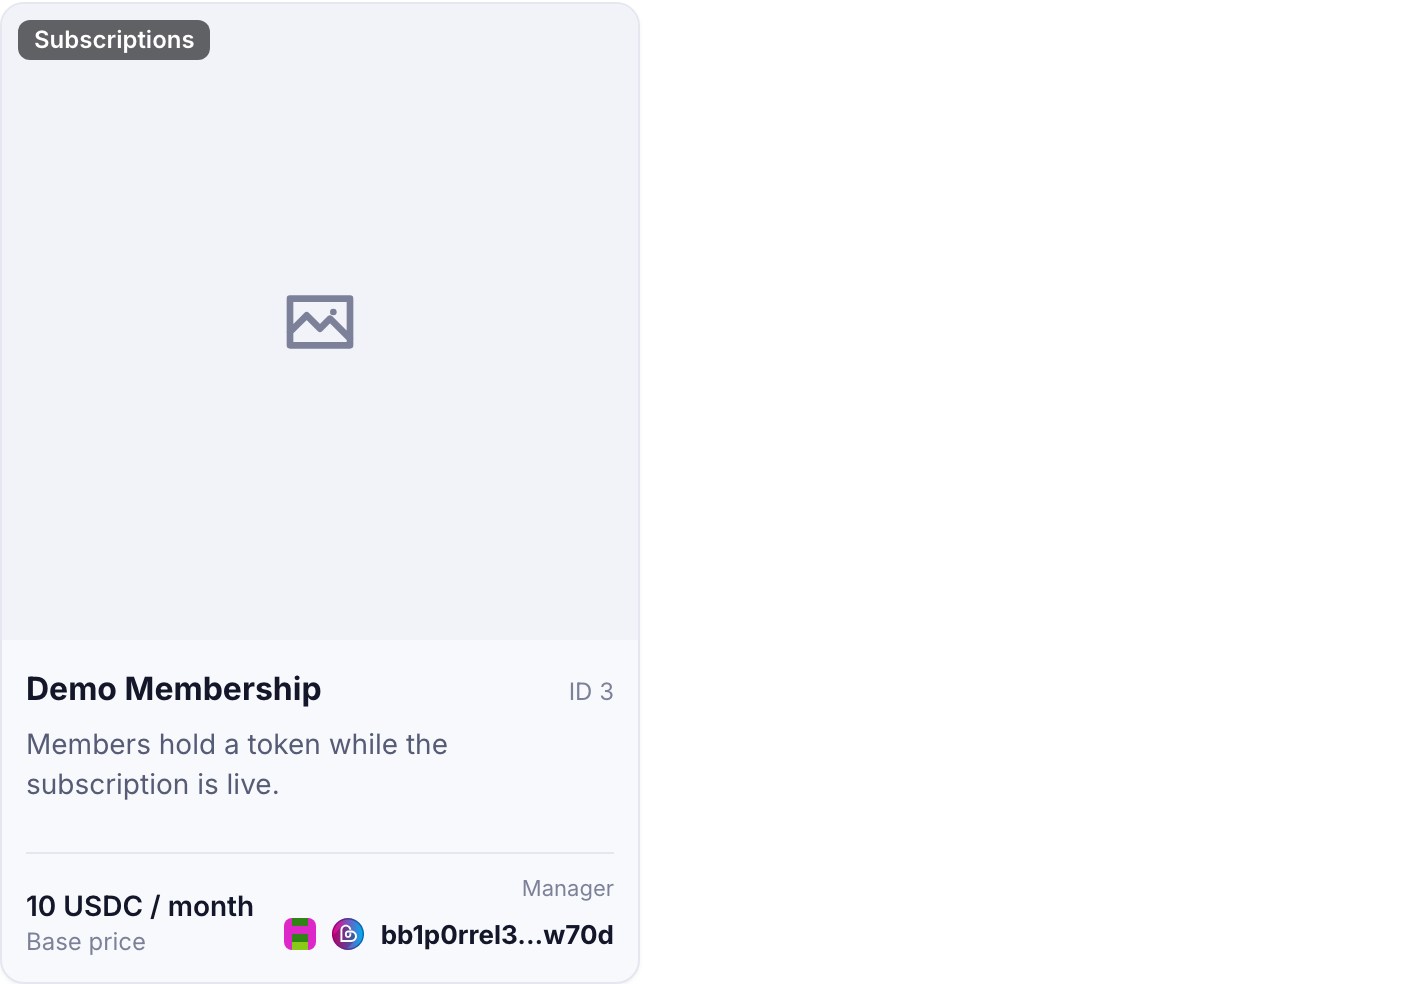
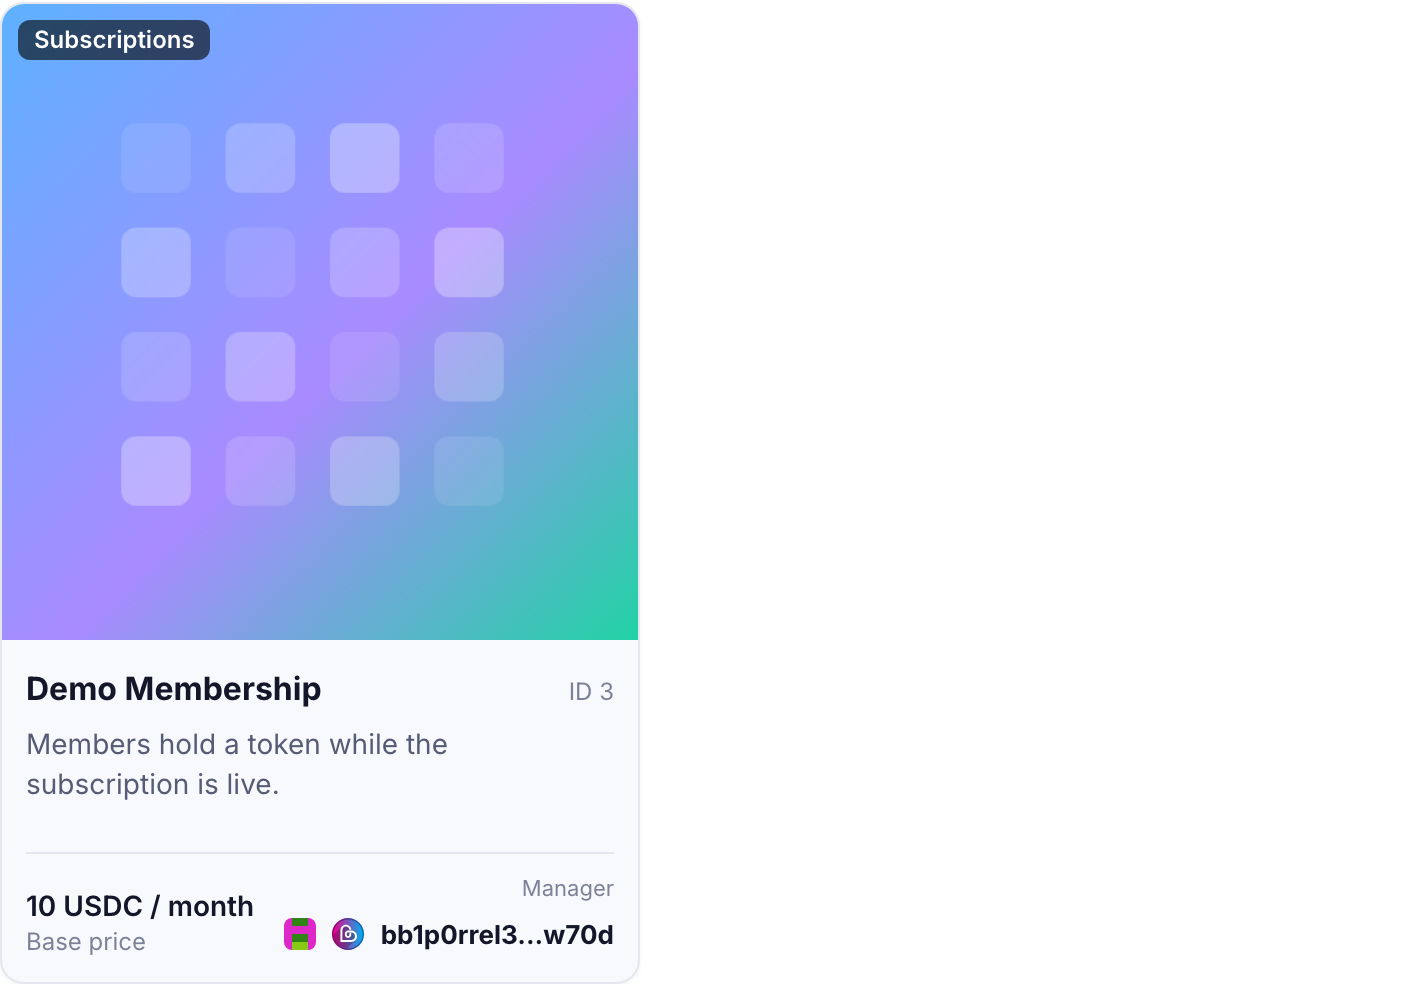
fix(site): every collection card has art, and empty stubs leave the collapsed view
A collection card rendered an empty photo frame when no image was
passed, which is worse than no card. The image is now required by the
schema, and four abstract sample artworks ship with the site for the
docs examples to use.

Key protection in the JSON pruner applied by name at any depth, so
precalculateBalancesFromApproval survived as a wrapper holding one empty
approvalId. Protection now applies at the root only, where an empty
value is a real choice such as a uri that means inline metadata. Nested,
the field goes and the wrapper left empty goes with it.

Seventeen of the 47 widget placements are removed. A widget earns its
place when seeing the shape teaches something the prose and the JSON
beside it cannot; the ones that went were single dimmed cards, bare
address chips, and rows on reference pages whose job is the field list.

Changed region(s): [[0.0, 0.0, 0.4674, 0.6707]]

diff --git a/site/src/components/widgets/CollectionCard.tsx b/site/src/components/widgets/CollectionCard.tsx
@@ -1,13 +1,19 @@
 import { z } from 'zod';
 
-import { AddressChip, Chip, Icon, WidgetFrame } from './shared';
+import { withBasePath } from '../../lib/docs/config';
+import { AddressChip, Chip, WidgetFrame } from './shared';
 
 /** A collection as the browse grid shows it: image, name, id, standard, supply, manager. */
 export const schema = z.object({
   collectionId: z.union([z.string(), z.number()]).transform(String),
   name: z.string().min(1),
   description: z.string().optional(),
-  image: z.string().url().optional(),
+  /**
+   * Cover art. Required: a card with an empty frame is worse than no card, and
+   * every collection on bitbadges.io has art. Sample artwork for docs examples
+   * lives in `site/public/widgets/samples/`.
+   */
+  image: z.string().min(1),
   /** Standards from `collection.standards`; the first one is the badge on the card. */
   standards: z.array(z.string()).default([]),
   supply: z.string().optional(),
@@ -25,13 +31,7 @@ export function Component({ collectionId, name, description, image, standards, s
     <WidgetFrame name="collection-card" className="@container w-full max-w-[20rem] overflow-hidden">
       <div>
         <div className="relative aspect-square w-full bg-[var(--bg-inset)]">
-          {image ? (
-            <img src={image} alt="" className="h-full w-full object-cover" />
-          ) : (
-            <div className="flex h-full w-full items-center justify-center text-[var(--fg-faint)]">
-              <Icon name="image" size={40} />
-            </div>
-          )}
+          <img src={withBasePath(image)} alt="" data-site-asset className="h-full w-full object-cover" />
           {standards[0] && (
             <span className="absolute left-2 top-2 rounded-md bg-black/60 px-2 py-0.5 text-xs font-semibold text-white">{standards[0]}</span>
           )}
@@ -79,6 +79,7 @@ export const examples: { name: string; props: z.input<typeof schema> }[] = [
       collectionId: 1,
       name: 'Demo NFTs',
       description: 'One hundred unique tokens, each with its own metadata.',
+      image: '/widgets/samples/nft.png',
       standards: ['NFTs', 'Tradable'],
       supply: '100',
       manager: 'bb1p0rrel3365scadq5k9pv0x0zp9j22js6dnw70d',
@@ -92,6 +93,7 @@ export const examples: { name: string; props: z.input<typeof schema> }[] = [
       collectionId: 3,
       name: 'Demo Membership',
       description: 'Members hold a token while the subscription is live.',
+      image: '/widgets/samples/membership.png',
       standards: ['Subscriptions'],
       price: '10 USDC / month',
       priceLabel: 'Base price',
@@ -100,6 +102,13 @@ export const examples: { name: string; props: z.input<typeof schema> }[] = [
   },
   {
     name: 'fungible',
-    props: { collectionId: 2, name: 'Demo Coin', standards: ['Fungible Tokens'], symbol: 'DEMO', supply: '1,000,000' },
+    props: {
+      collectionId: 2,
+      name: 'Demo Coin',
+      image: '/widgets/samples/points.png',
+      standards: ['Fungible Tokens'],
+      symbol: 'DEMO',
+      supply: '1,000,000',
+    },
   },
 ];

diff --git a/site/tests/collapse.test.ts b/site/tests/collapse.test.ts
@@ -101,6 +101,44 @@ describe('pruneJson', () => {
     expect(out).not.toMatch(/\{\s*\n\s*\}/);
   });
 
+  test('protects a meaningful empty value at the root but not a nested stub', () => {
+    const source = [
+      '{',
+      '  "from": "bb1p0rrel3365scadq5k9pv0x0zp9j22js6dnw70d",',
+      '  "uri": "",',
+      '  "customData": "",',
+      '  "balances": [{ "amount": "1" }],',
+      '  "precalculateBalancesFromApproval": {',
+      '    "approvalId": ""',
+      '  },',
+      '  "prioritizedApprovals": [],',
+      '  "onlyCheckPrioritizedCollectionApprovals": false',
+      '}',
+    ].join('\n');
+    const out = pruneJson(source)!;
+    expect(() => JSON.parse(out)).not.toThrow();
+    // An empty uri at the root says the metadata is inline, so it stays.
+    expect(out).toContain('"uri": ""');
+    // A wrapper whose only field is an empty id says nothing; both go.
+    expect(out).not.toContain('precalculateBalancesFromApproval');
+    expect(out).not.toContain('"approvalId"');
+    expect(out).not.toContain('"customData"');
+  });
+
+  test('drops the trailing comma when the last member of the root object goes', () => {
+    const source = [
+      '{',
+      '  "a": "keep",',
+      '  "b": "keep too",',
+      '  "c": [],',
+      '  "d": {}',
+      '}',
+    ].join('\n');
+    const out = pruneJson(source)!;
+    expect(out).toBe('{\n  "a": "keep",\n  "b": "keep too"\n}');
+    expect(() => JSON.parse(out)).not.toThrow();
+  });
+
   test('never leaves a trailing comma before a closing bracket', () => {
     expect(pruneJson(approval)!).not.toMatch(/,\s*[}\]]/);
   });

diff --git a/site/src/lib/docs/fold.ts b/site/src/lib/docs/fold.ts
@@ -20,9 +20,13 @@ const PRUNE_LANGS = new Set(['json', 'jsonc']);
 const PRUNE_MIN_LINES = 24;
 
 /**
- * Keys whose value carries meaning even when it looks like boilerplate. An
- * empty `uri` says the metadata is inline; an `approvalId` of `""` is a real
- * choice a reader has to see.
+ * Root-level keys whose value carries meaning even when it looks like
+ * boilerplate. An empty `uri` on a collection says the metadata is inline.
+ *
+ * Only the root is protected. The same name nested inside another object is
+ * usually a stub: `precalculateBalancesFromApproval.approvalId` of `""` says
+ * this transfer does not precalculate, so showing the wrapper with one empty
+ * field tells a reader less than dropping both.
  */
 const PROTECTED_KEYS = new Set([
   'approvalId',
@@ -67,7 +71,8 @@ function boilerplatePaths(value: unknown, at: string[] = [], out: string[][] = [
   }
   for (const [key, child] of Object.entries(value)) {
     const path = [...at, key];
-    if (!PROTECTED_KEYS.has(key) && isBoilerplateValue(child)) out.push(path);
+    const protectedHere = at.length === 0 && PROTECTED_KEYS.has(key);
+    if (!protectedHere && isBoilerplateValue(child)) out.push(path);
     else boilerplatePaths(child, path, out);
   }
   return out;

diff --git a/site/tests/widgets.test.ts b/site/tests/widgets.test.ts
@@ -79,7 +79,12 @@ describe('widget registry', () => {
     for (const name of widgetNames) {
       for (const example of widgets[name].examples) {
         const html = renderStatic(createWidgetElement(name, example.props));
-        for (const m of html.matchAll(/src="\/widgets\/([^"]+)"/g)) expect(files.has(m[1])).toBe(true);
+        // Logos sit directly under public/widgets; sample artwork one level down.
+        for (const m of html.matchAll(/src="\/widgets\/([^"]+)"/g)) {
+          const parts = m[1].split('/');
+          const dir = parts.length > 1 ? await fs.readdir(path.resolve(import.meta.dirname, `../public/widgets/${parts.slice(0, -1).join('/')}`)) : [...files];
+          expect(dir.includes(parts[parts.length - 1])).toBe(true);
+        }
       }
     }
   });

diff --git a/_docs/widgets/README.md b/_docs/widgets/README.md
@@ -15,6 +15,7 @@ Regenerate after a widget changes; the live page is `/widgets` on the site.
 | `address-list` | blacklist-mixed-chains | ![address-list blacklist-mixed-chains](./address-list--blacklist-mixed-chains.png) | ![address-list blacklist-mixed-chains dark](./address-list--blacklist-mixed-chains--dark.png) |
 | `approval-criteria` | paid-mint | ![approval-criteria paid-mint](./approval-criteria--paid-mint.png) | ![approval-criteria paid-mint dark](./approval-criteria--paid-mint--dark.png) |
 | `approval-criteria` | gated-by-ownership | ![approval-criteria gated-by-ownership](./approval-criteria--gated-by-ownership.png) | ![approval-criteria gated-by-ownership dark](./approval-criteria--gated-by-ownership--dark.png) |
+| `approval-criteria` | scaled-payout-with-daily-reset | ![approval-criteria scaled-payout-with-daily-reset](./approval-criteria--scaled-payout-with-daily-reset.png) | ![approval-criteria scaled-payout-with-daily-reset dark](./approval-criteria--scaled-payout-with-daily-reset--dark.png) |
 | `approval-criteria` | empty | ![approval-criteria empty](./approval-criteria--empty.png) | ![approval-criteria empty dark](./approval-criteria--empty--dark.png) |
 | `collection-card` | nft | ![collection-card nft](./collection-card--nft.png) | ![collection-card nft dark](./collection-card--nft--dark.png) |
 | `collection-card` | subscription | ![collection-card subscription](./collection-card--subscription.png) | ![collection-card subscription dark](./collection-card--subscription--dark.png) |

diff --git a/token-standard/messages/msg-set-outgoing-approval.md b/token-standard/messages/msg-set-outgoing-approval.md
@@ -235,33 +235,6 @@ console.log(result.txHash, result.success);
 }
 ```
 
-:::widget{name="transferability-row" caption="The listing as the outgoing approvals tab on bitbadges.io shows it: bob alone can take token 5 for 25 USDC inside the seven-day window."}
-{
-  "approvalId": "sell-token-5-to-bob",
-  "level": "outgoing",
-  "fromListId": "bb1p0rrel3365scadq5k9pv0x0zp9j22js6dnw70d",
-  "toListId": "bb1py4mfpg6uf59qkyzg0nmau322c5873eeysp5ue",
-  "initiatedByListId": "bb1py4mfpg6uf59qkyzg0nmau322c5873eeysp5ue",
-  "transferTimes": [
-    {
-      "start": "1788739200000",
-      "end": "1789344000000"
-    }
-  ],
-  "tokenIds": [
-    {
-      "start": "5",
-      "end": "5"
-    }
-  ],
-  "criteria": [
-    "25 USDC to alice",
-    "Max 1 transfer",
-    "Deleted after one use"
-  ]
-}
-:::
-
 The `set-outgoing-approval` CLI command takes the `approval` object on its own, not the whole message. This approval has side effects (`coinTransfers`, trackers, auto-deletion), so `mustPrioritize` is `true` and bob must list it in `prioritizedApprovals` when he executes the transfer.
 
 {% hint style="info" %}

diff --git a/token-standard/messages/msg-transfer-tokens.md b/token-standard/messages/msg-transfer-tokens.md
@@ -103,21 +103,6 @@ console.log(result.txHash, result.success);
 }
 ```
 
-:::widget{name="transferability-row" caption="The transferable approval the example names, as bitbadges.io lists it on Demo NFTs: any holder except Mint can send any of the 100 tokens to anyone."}
-{
-  "approvalId": "transferable",
-  "fromListId": "AllWithoutMint",
-  "toListId": "All",
-  "initiatedByListId": "All",
-  "tokenIds": [
-    {
-      "start": "1",
-      "end": "100"
-    }
-  ]
-}
-:::
-
 A `precalculateBalancesFromApproval` with every field blank is ignored. To mint from an approval that has `predeterminedBalances`, set `from` to `Mint`, leave `balances` empty, and name the approval in `precalculateBalancesFromApproval`. The chain computes the balances at execution time and overwrites the field.
 
 {% hint style="info" %}

diff --git a/token-standard/messages/msg-update-user-approvals.md b/token-standard/messages/msg-update-user-approvals.md
@@ -249,28 +249,6 @@ console.log(result.txHash, result.success);
 }
 ```
 
-:::widget{name="transferability-row" caption="The outgoing approval after this message: alice can move bob's token 1 to herself for 30 days."}
-{
-  "approvalId": "let-alice-move-token-1",
-  "level": "outgoing",
-  "fromListId": "bb1py4mfpg6uf59qkyzg0nmau322c5873eeysp5ue",
-  "toListId": "bb1p0rrel3365scadq5k9pv0x0zp9j22js6dnw70d",
-  "initiatedByListId": "bb1p0rrel3365scadq5k9pv0x0zp9j22js6dnw70d",
-  "transferTimes": [
-    {
-      "start": "1788739200000",
-      "end": "1791331200000"
-    }
-  ],
-  "tokenIds": [
-    {
-      "start": "1",
-      "end": "1"
-    }
-  ]
-}
-:::
-
 ## Fields
 
 When an `update*` flag is `false` the paired value is ignored, so placeholder data is safe.

diff --git a/token-standard/approval-criteria/predetermined-balances.md b/token-standard/approval-criteria/predetermined-balances.md
@@ -143,30 +143,6 @@ A complete `predeterminedBalances` with `incrementedBalances` open:
 }
 ```
 
-:::widget{name="approval-criteria" caption="The predetermined balances card on bitbadges.io: one token per transfer, with IDs handed out in order."}
-{
-  "predeterminedBalances": {
-    "incrementedBalances": {
-      "startBalances": [
-        {
-          "amount": "1",
-          "tokenIds": [
-            {
-              "start": "1",
-              "end": "1"
-            }
-          ]
-        }
-      ],
-      "incrementTokenIdsBy": "1"
-    },
-    "orderCalculationMethod": {
-      "useOverallNumTransfers": true
-    }
-  }
-}
-:::
-
 | Field | Description | Example |
 | --- | --- | --- |
 | `startBalances` | Balances for transfer number 0 | |

diff --git a/guides/smart-tokens-and-vaults.md b/guides/smart-tokens-and-vaults.md
@@ -680,19 +680,6 @@ Daily limit of 1 USDC (1,000,000 base units) per sender, resetting every 24 hour
 }
 ```
 
-:::widget{name="approval-criteria" caption="The withdrawal rule on bitbadges.io: 1,000,000 base units per sender, reset every day."}
-{
-  "approvalAmounts": {
-    "perFromAddressApprovalAmount": "1000000",
-    "amountTrackerId": "daily-withdraw-limit",
-    "resetTimeIntervals": {
-      "startTime": "0",
-      "intervalLength": "86400000"
-    }
-  }
-}
-:::
-
 2FA on withdrawal. The initiator must hold a token from collection 74 at the current time (`overrideWithCurrentTime: true` matters for expiring 2FA tokens). The same unbacking approval with that rule instead:
 
 ```json fold=11-20,22-40,42-48,50-63,73-103,107-111

diff --git a/token-standard/messages/msg-set-incoming-approval.md b/token-standard/messages/msg-set-incoming-approval.md
@@ -211,22 +211,6 @@ console.log(result.txHash, result.success);
 }
 ```
 
-:::widget{name="transferability-row" caption="The incoming approval as bob's account page lists it: transfers alice starts, for any token of collection 1, with no extra criteria."}
-{
-  "approvalId": "accept-from-alice",
-  "level": "incoming",
-  "fromListId": "bb1p0rrel3365scadq5k9pv0x0zp9j22js6dnw70d",
-  "toListId": "bb1py4mfpg6uf59qkyzg0nmau322c5873eeysp5ue",
-  "initiatedByListId": "bb1p0rrel3365scadq5k9pv0x0zp9j22js6dnw70d",
-  "tokenIds": [
-    {
-      "start": "1",
-      "end": "100"
-    }
-  ]
-}
-:::
-
 The `set-incoming-approval` CLI command takes the `approval` object on its own, not the whole message.
 
 {% hint style="info" %}

diff --git a/token-standard/messages/msg-set-collection-approvals.md b/token-standard/messages/msg-set-collection-approvals.md
@@ -279,21 +279,6 @@ console.log(result.txHash, result.success);
 
 The `mint` approval is not in the list, so this message deletes it: minting stops for good. The permission entry forbids every future change to `transferable`, so the collection stays freely tradable.
 
-:::widget{name="transferability-row" caption="The transferability tab after this message: one approval remains, and the permission entry means no manager can change it."}
-{
-  "approvalId": "transferable",
-  "fromListId": "AllWithoutMint",
-  "toListId": "All",
-  "initiatedByListId": "All",
-  "tokenIds": [
-    {
-      "start": "1",
-      "end": "100"
-    }
-  ]
-}
-:::
-
 ## Fields
 
 | Field | Type | Required | Description |
